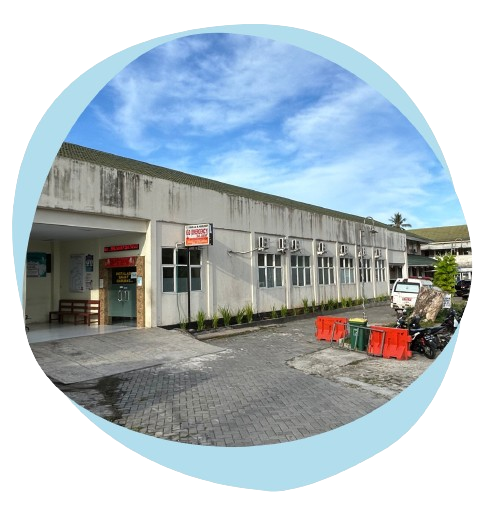
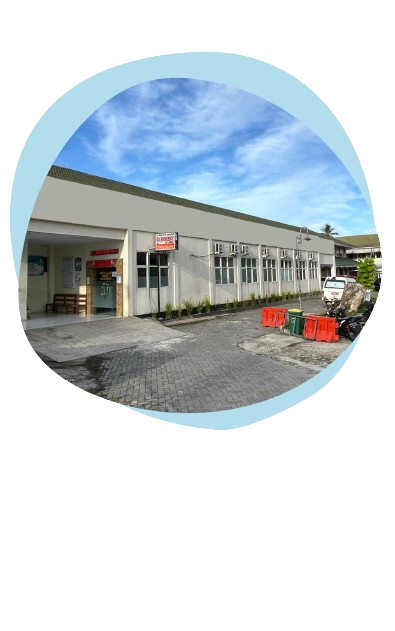
add some changes

diff --git a/resources/views/visitor/layout/main.blade.php b/resources/views/visitor/layout/main.blade.php
@@ -90,8 +90,11 @@
         .text-main {
             margin-top: 120px;
         }
-    }
 
+        .large-top-margin {
+            padding-top: 75px;
+        }
+    }
     .nav-item {
         margin-right: 30px;
     }
@@ -216,18 +219,18 @@
             </div>
         </nav>
         <div id="particles-js"></div>
-        <section class="py-xxl-10 pb-0" id="home">
+        <section class="pb-0" id="home">
             <div class="bg-holder bg-size"
                 style="background-image: url(/visitor/assets/img/gallery/hero-bg.png);background-position: top center;background-size: cover;">
             </div>
             <!--/.bg-holder-->
-            <div class="container text-center small-margin">
+            <div class="container text-center pt-3">
                 <div class="row min-vh-xl-100 min-vh-xxl-25">
                     <div class="col-12 col-sm-12 col-md-12 col-lg-6 order-0 order-lg-1">
-                        <img class="p-0" width="85%"
+                        <img class="p-0 img-fluid" width="90%"
                             src="{{ asset('visitor/assets/img/gallery/main.png') }}" alt="hero-header" />
                     </div>
-                    <div class="col-12 col-sm-12 col-md-12 col-lg-6 text-lg-start text-main">
+                    <div class="col-12 col-sm-12 col-md-12 col-lg-6 text-lg-start text-main large-top-margin">
                         <b>
                             <h1 class="fw-light fs-6 fs-xxl-7">
                                 RSUD dr. M. Haulussy Ambon

diff --git a/resources/views/visitor/fasilitas/ketersediaan-tempat-tidur.blade.php b/resources/views/visitor/fasilitas/ketersediaan-tempat-tidur.blade.php
@@ -9,6 +9,16 @@
             background-color: white;
             padding: 0;
         }
+
+        .witdh-fit {
+            white-space: nowrap;
+            width: 1%;
+        }
+
+        /* .tb-header{
+            background-color: #283779;
+            color: white;
+        } */
     </style>
 @endsection
 
@@ -19,16 +29,16 @@
         </div>
         <div class="container col-10 col-sm-10 col-md-8 col-lg-6" id="table">
             <table class="table table-bordered table-striped">
-                <tr>
+                <tr style="color: white; background-color: #283779">
                     <th>No.</th>
                     <th>Nama Ruangan</th>
-                    <th>Ketersediaan</th>
+                    <th class="text-end witdh-fit">Ketersediaan</th>
                 </tr>
                 @foreach ($beds as $bed)
                     <tr>
                         <td>{{ $loop->iteration }}</td>
                         <td>{{ $bed->room }}</td>
-                        <td>{{ $bed->availability }}</td>
+                        <td class="text-end">{{ $bed->availability }}</td>
                     </tr>
                 @endforeach
             </table>
@@ -37,7 +47,7 @@
                 <p><i>*{{ $note->content }}</i></p>
             </div>
         </div>
-        
+
 
     </section>
 @endsection

diff --git a/resources/views/visitor/fasilitas/dokter-umum.blade.php b/resources/views/visitor/fasilitas/dokter-umum.blade.php
@@ -59,7 +59,7 @@
                             dr. Fitrah Hanafi
                         </button>
                         <div class="panel" id="drFitrahHanafi">
-                            <img src="{{ asset('visitor/assets/img/avatar/avatar_cewe.png') }}" alt="dr. Fitrah Hanafi"
+                            <img src="{{ asset('visitor/assets/img/avatar/avatar_laki.png') }}" alt="dr. Fitrah Hanafi"
                                 id="doctor-image" />
                         </div>
 
@@ -156,7 +156,7 @@
                             dr. Sahran Feggy A. Pattinama    
                         </button>
                         <div class="panel" id="drSahranFeggyAPattinama">
-                            <img src="{{ asset('visitor/assets/img/avatar/avatar_cewe.png') }}" alt="dr. Sahran Feggy A. Pattinama" id="doctor-image" />
+                            <img src="{{ asset('visitor/assets/img/avatar/avatar_laki.png') }}" alt="dr. Sahran Feggy A. Pattinama" id="doctor-image" />
                         </div>
 
                         <button class="accordion btn btn-primary" onclick="toggleDoctorPanel('drSekarIndahSetyarini')">

diff --git a/resources/views/visitor/fasilitas/jadwal-poliklinik.blade.php b/resources/views/visitor/fasilitas/jadwal-poliklinik.blade.php
@@ -312,6 +312,13 @@
                         <td>Senin & Kamis</td>
                         <td>08:00 - Selesai</td>
                     </tr>
+                    <tr>
+                        <th scope="row">19</th>
+                        <td>MCU (Medical Check Up)</td>
+                        <td>dr. Wenny Fonda Liklikwatil</td>
+                        <td>Senin - Jumat</td>
+                        <td>08:00 - Selesai</td>
+                    </tr>
                 </tbody>
             </table>
             <p class="text-danger"><i>*1 Februari 2024</i></p>
